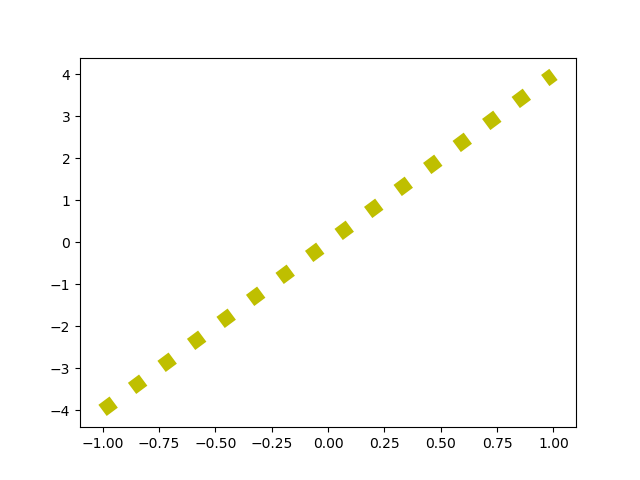
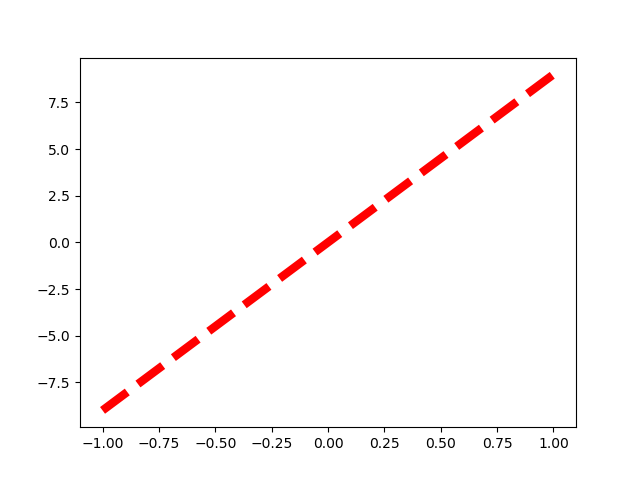
first commit

diff --git a/example.py b/example.py
@@ -2,7 +2,7 @@ import matplotlib.pyplot as plt
 import numpy as np
 
 x = np.linspace(-1, 1, 50)
-y = 4*x
+y = 9*x
 
-plt.plot(x, y,'y:',linewidth=10)
+plt.plot(x, y,'r--',linewidth=6)
 plt.savefig('chart.png')

diff --git a/README.md b/README.md
@@ -1,4 +1,4 @@
-# Line Chart Madeline 
+# Line Chart Patricia 
 
 Example for my book (matplotlib, python)
 
